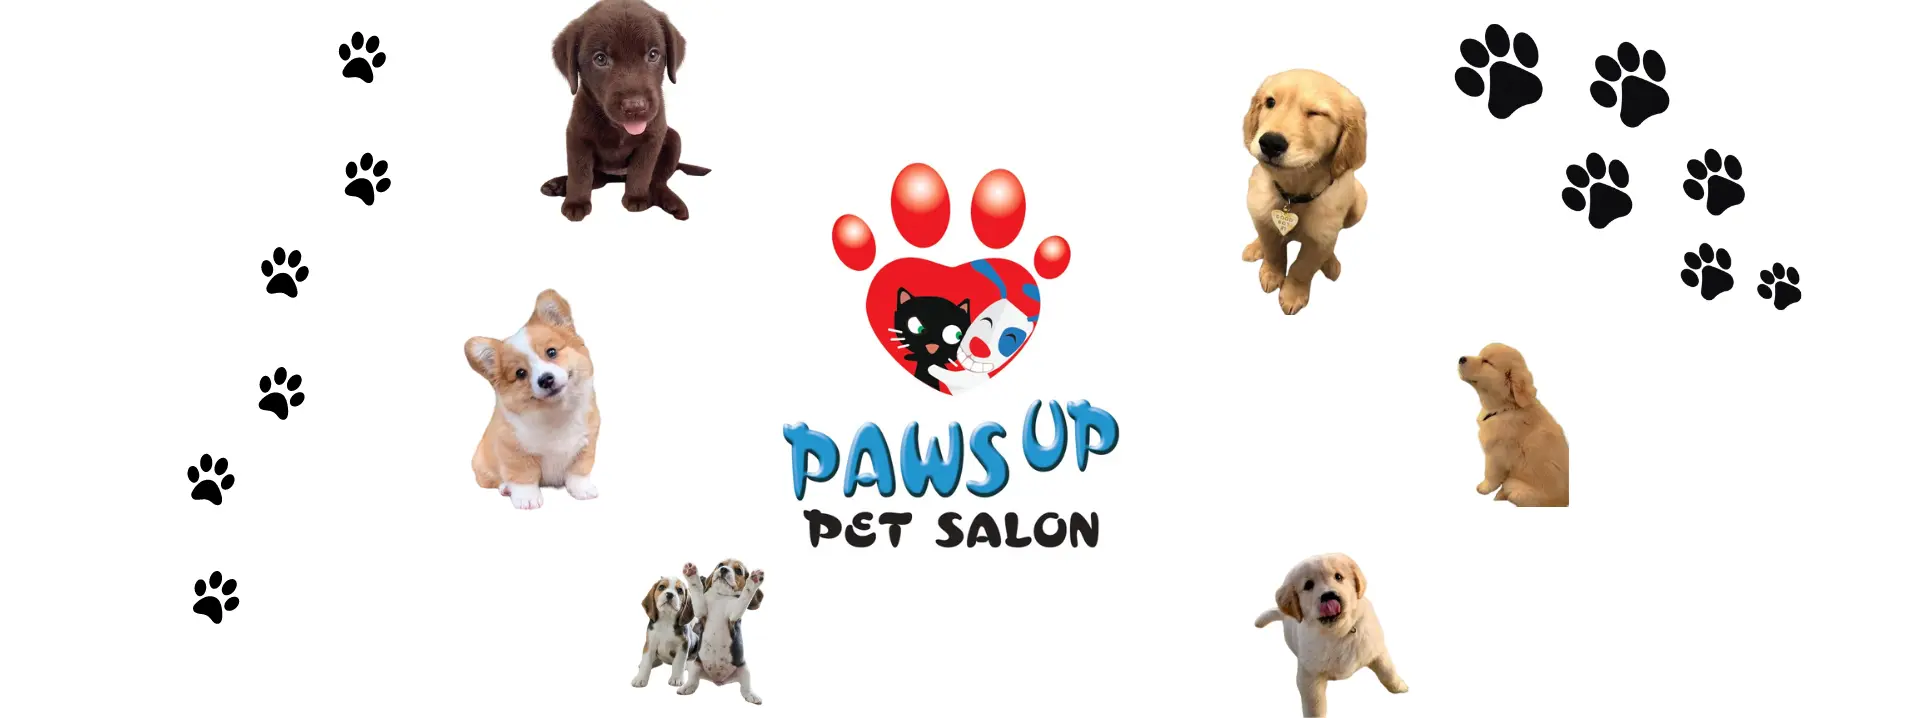
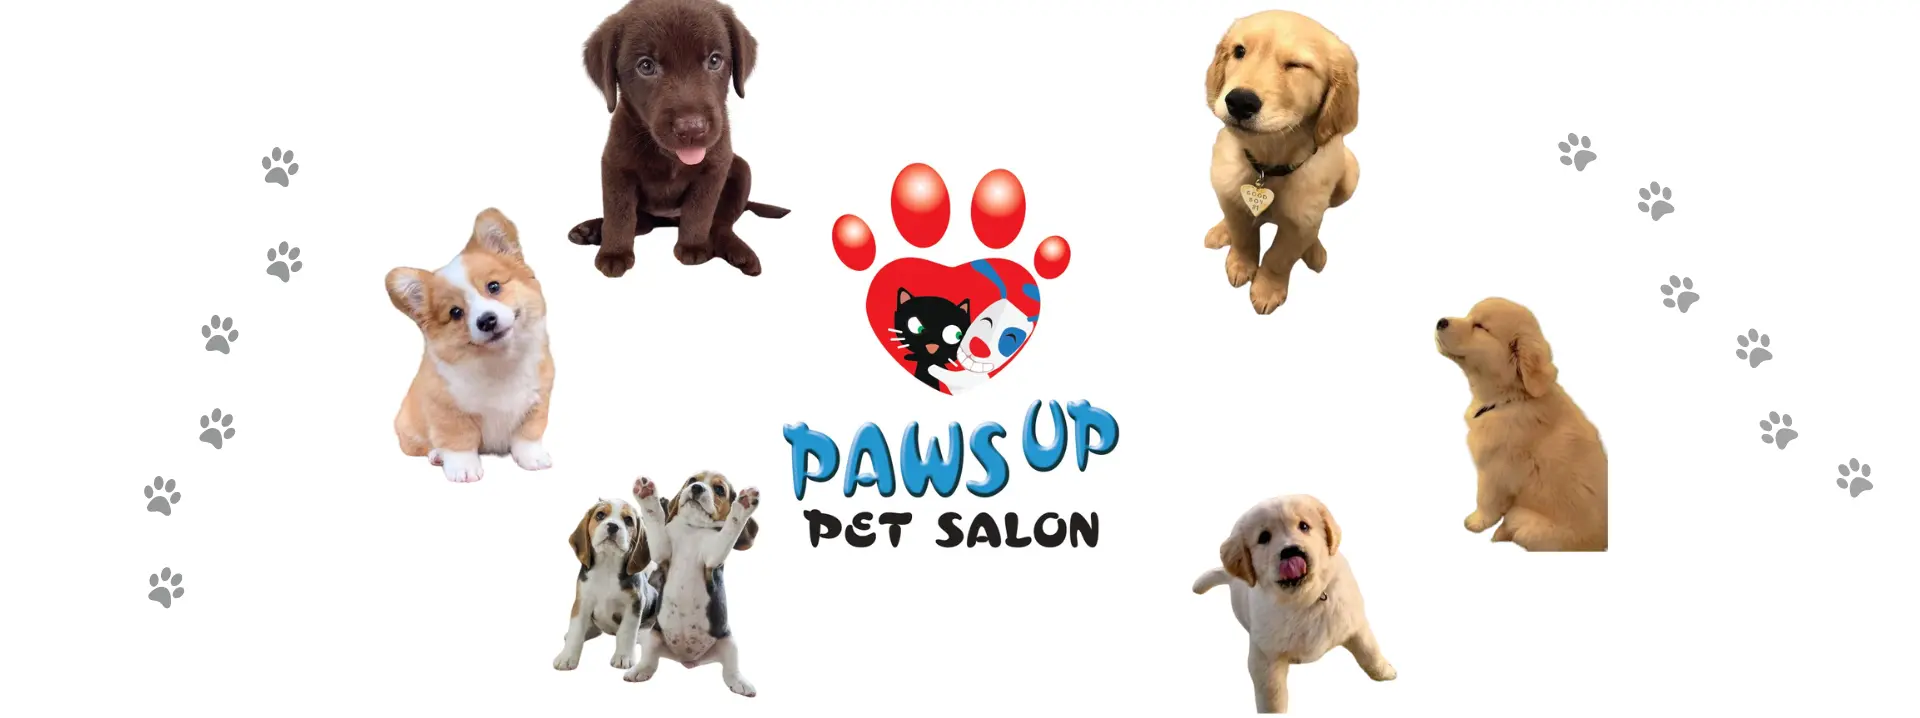
Add files via upload

diff --git a/css/style.css b/css/style.css
@@ -81,7 +81,7 @@ h2 {
 
 /*Contenedor principal*/
 .altura {
-    height: calc(100vh - 140px);
+    /*height: calc(100vh - 140px);*/
     display: flex;
     flex-direction: column;
     align-items: center;
@@ -91,7 +91,7 @@ h2 {
 
 /*Img abajo del h1*/
 .portada {
-    width: 900px;
+    width: 1020px;
 }
 
 /*Contenedor de las secciones*/
@@ -228,12 +228,12 @@ footer {
 
     h1 {
         text-align: center;
-        font-size: 20px;
+        font-size: 25px;
         margin-top: 15px; /*Margen para que no se pegue con el Header*/
     }
 
     h2 {
-        font-size: 17px;
+        font-size: 20px;
         margin-top: 10px;
     }
 
@@ -244,7 +244,7 @@ footer {
 
     /*Se agrega margin-top para que esté más pegado en Header en versión mobile*/
     .altura {
-        height: 50vh;
+        /*  height: 50vh;*/
         width: 100vw;
         display: flex;
         flex-direction: column;
@@ -255,7 +255,7 @@ footer {
         /* margin-top: 10px;*/
     }
     .portada {
-        width: 200px;
+        width: 400px;
     }
 
     .contenedor {
